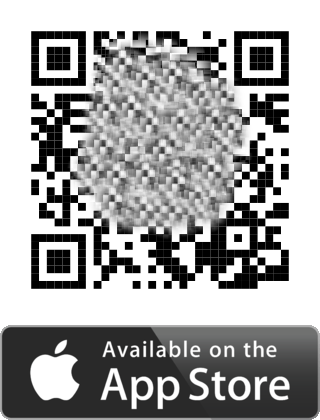
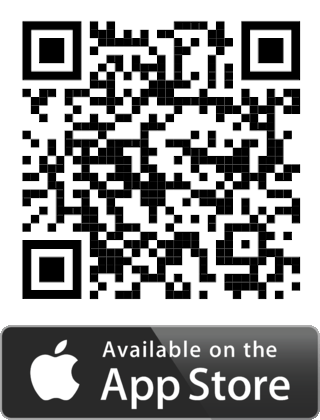
Added link to IOS App

diff --git a/docs/usage/faq.rst b/docs/usage/faq.rst
@@ -11,3 +11,26 @@ FAQ
 
    Check in the information screen between which times the track can be recorded. The finish/exit icon button can only be clicked in the recording window.
 
+.. dropdown:: Track is not recorded if the screen is switched off
+   :animate: fade-in
+
+   Check if all the needed permissions are enabled. See `Permission overview <../getting-started/overview.html#permission-overview>`_.
+   Double check if the location permission is set to ``Always`` for IOS or ``Allow all the time`` for Android.
+
+.. dropdown:: How accurate is the distance in the Map screen
+   :animate: fade-in
+
+    .. panels::
+       :container: container-lg
+       :column: col-lg-6 col-md-12 col-sm-12
+
+       .. figure:: ../_static/images/usage/Cut-corner.png
+          :alt: Cutting a corner
+
+          Cutting a corner
+       ---
+       It depends on the length of the route, whether there are many sharp bends in the route and most importantly, the distance filter defined by the event organisation.
+       The App is optimized for battery-efficiency. It samples the accelerometer periodically while tracking in order to power-down the GPS as soon as the device is determined to be stationary.
+       It uses the distance filter to query for the GPS location. But the filter itself is elastic; the faster you go, the larger the distance filter becomes. And ofcourse the other way around.
+       Usually, the organisation sets this filter to at least 10 metres for a walking route and at least 20 metres for bicycles, for example.
+       So yes, the distance measured may be slightly shorter than the real distance due to cutting corners.

diff --git a/docs/getting-started/installation.rst b/docs/getting-started/installation.rst
@@ -1,7 +1,6 @@
 Installation
 ============
 The Fe Tracking App is available for Android 7.0 and later and IOS 9.0 and later.
-The App is currently available for Android and is in beta testing for IOS and will soon be offered to Apple for approval. Once the App for IOS is approved we will update the download link.
 
 .. list-table::
 
@@ -10,4 +9,4 @@ The App is currently available for Android and is in beta testing for IOS and wi
            :target: https://play.google.com/store/apps/details?id=nl.fe_data.tracking
       - .. image:: ../_static/images/getting-started/Tracking-IOS.png
            :scale: 50%
-           :target: https://apps.apple.com
+           :target: https://apps.apple.com/app/fe-tracking/id1574304676

diff --git a/docs/usage/track-record.rst b/docs/usage/track-record.rst
@@ -20,7 +20,7 @@ Record
 
 If the current event is active, it means that the current date falls within the tracking window. See :doc:`Information <track-information>` screen.
 Once this is the case, the recording icon will turn ``red`` instead of ``grey``.
-Clicking on it will record the event; it will record the route travelled and check whether any checkpoints are passed.
+Clicking on it will start recording the event; it will record the route travelled and check whether any checkpoints are passed.
 The background of the event will become transparent red, so that in the overview it is clear which event is being recorded.
 
 Whenever a checkpoint is passed, the counter next to the information icon will increase.

diff --git a/docs/getting-started/overview.rst b/docs/getting-started/overview.rst
@@ -66,4 +66,4 @@ Permission overview
 |
 
 .. warning:: Periodically, both IOS and Android will show reminders that the App can always request location data and if the App is not used for a long time, this permission will be withdrawn.
-   So if the App has not been used for a long time and it is restarted again, make sure that the location permission is set to ``Always``.
+   So if the App has not been used for a long time and it is restarted again, make sure that the location permission is set to ``Always`` for IOS or ``Allow all the time`` for Android.

diff --git a/docs/usage/track-information.rst b/docs/usage/track-information.rst
@@ -66,7 +66,6 @@ Information
 
 "Checkpoints" screen
   This screen shows an overview when checkpoints have been passed and when this information has been uploaded to the event organisation's server.
-  The upload is only shown and executed when the :guilabel:`Upload checkpoints` setting in the `Settings <../getting-started/settings.html#general-settings>`_ is enabled.
 
 "Qrcode" screen
   This qrcode can be shown, for example, if the organisation does not use "automatic" checkpoints on the route, but instead performs the scans manually.
